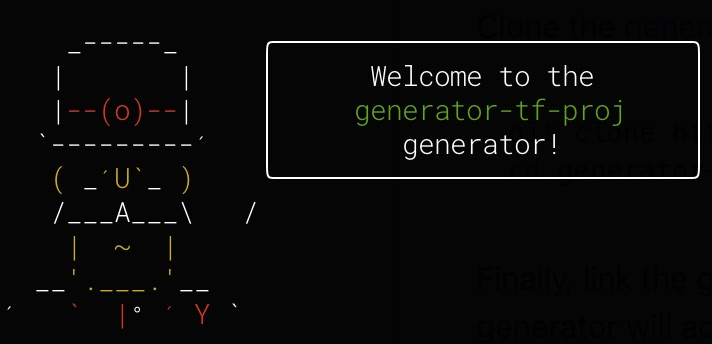
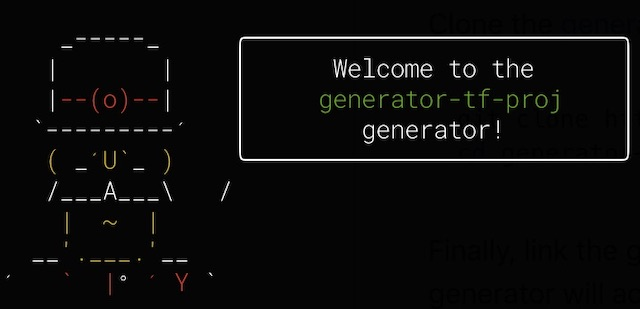
update readme

diff --git a/README.md b/README.md
@@ -1,4 +1,5 @@
- ![alt](./images/yo-man.jpg)
+
+ <img src="./images/yo-man.jpg" width="640">
 
 # About
 
